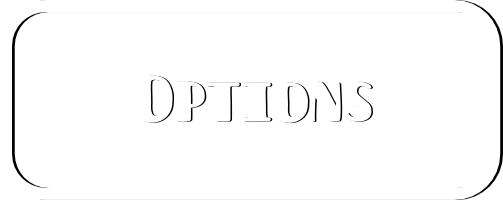
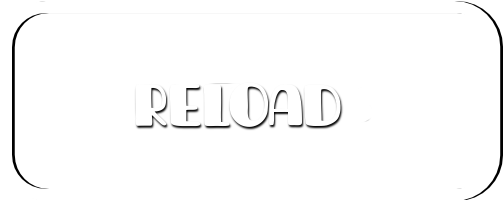
Fixes #156 : new button reload in the pause menu

diff --git a/src/GameManager.cpp b/src/GameManager.cpp
@@ -315,7 +315,7 @@ void GameManager::updateGame() {
 	/*********/
 	if (InputManager::getInstance()->onKeyPress(IND_ESCAPE)) {
 		if(m_bIsPlayingKinematic){
-
+			switchToGame();
 		}else{
 			switchToMenu();
 		}
@@ -477,11 +477,14 @@ void GameManager::switchToGame() {
 					m_sCurrentLevel = m_levelList[i+1];
 					// Load player data
 					std::pair<Player*, std::vector<Player*>> playerData = m_pParserPlayer->loadPlayerData();
-					playerData.first->setCurrentLevel(i+2);
-
+					
 					// Save player data
-					m_pParserPlayer->savePlayerData(playerData);
+					if(playerData.first->getCurrentLevel() < i+2){
+						playerData.first->setCurrentLevel(i+2);
+						m_pParserPlayer->savePlayerData(playerData);
+					}
 
+					// Load next level
 					loadLevel(m_sCurrentLevel.c_str());
 					loadPhysics();
 					fprintf(stderr, "Next Level loaded \n");
@@ -548,6 +551,12 @@ void GameManager::loadLevel(const char* mapFile) {
 	// Set enter and exit of level
 	m_fExitX = EntityManager::getInstance()->getExitCoordinates()[0];
 	m_fExitY = EntityManager::getInstance()->getExitCoordinates()[1];
+}
+
+void GameManager::reloadLevel(){
+	loadLevel(m_sCurrentLevel.c_str());
+	loadPhysics();
+	m_bIsInGame = true;
 }
 
 void GameManager::debugPhysicalEntities() {

diff --git a/src/menu/PauseMenu.cpp b/src/menu/PauseMenu.cpp
@@ -1,4 +1,5 @@
 #include "PauseMenu.h"
+#include "../GameManager.h"
 
 /** @namespace Symp */
 namespace Symp {
@@ -103,7 +104,7 @@ void PauseMenu::handleMouseClic(int mouseX, int mouseY){
 		MenuManager::getInstance()->setLevelChoosen(true);
 	}
 	else if(m_optionsButton->isTargetedByMouse(mouseX, mouseY)){
-		//TODO : options ?
+		GameManager::getInstance()->reloadLevel();
 	}
 	else if (m_backToMenuButton->isTargetedByMouse(mouseX, mouseY)){
 		// Quit game and display main menu

diff --git a/src/GameManager.h b/src/GameManager.h
@@ -133,6 +133,8 @@ public:
 	*/
 	void loadPhysics();
 
+	void reloadLevel();
+
 
 	void createKinematic();
 
@@ -142,6 +144,7 @@ public:
 	inline Window* 	getWindow() const {return m_pWindow;}
 	inline Render* 	getRender() const {return m_pRender;}
 	inline bool		getIsInGame() const {return m_bIsInGame;}
+	inline void 	setIsPlayerDead(bool value) {m_bIsPlayerDead = value;}
 
 private:
 	Window* 			m_pWindow;
